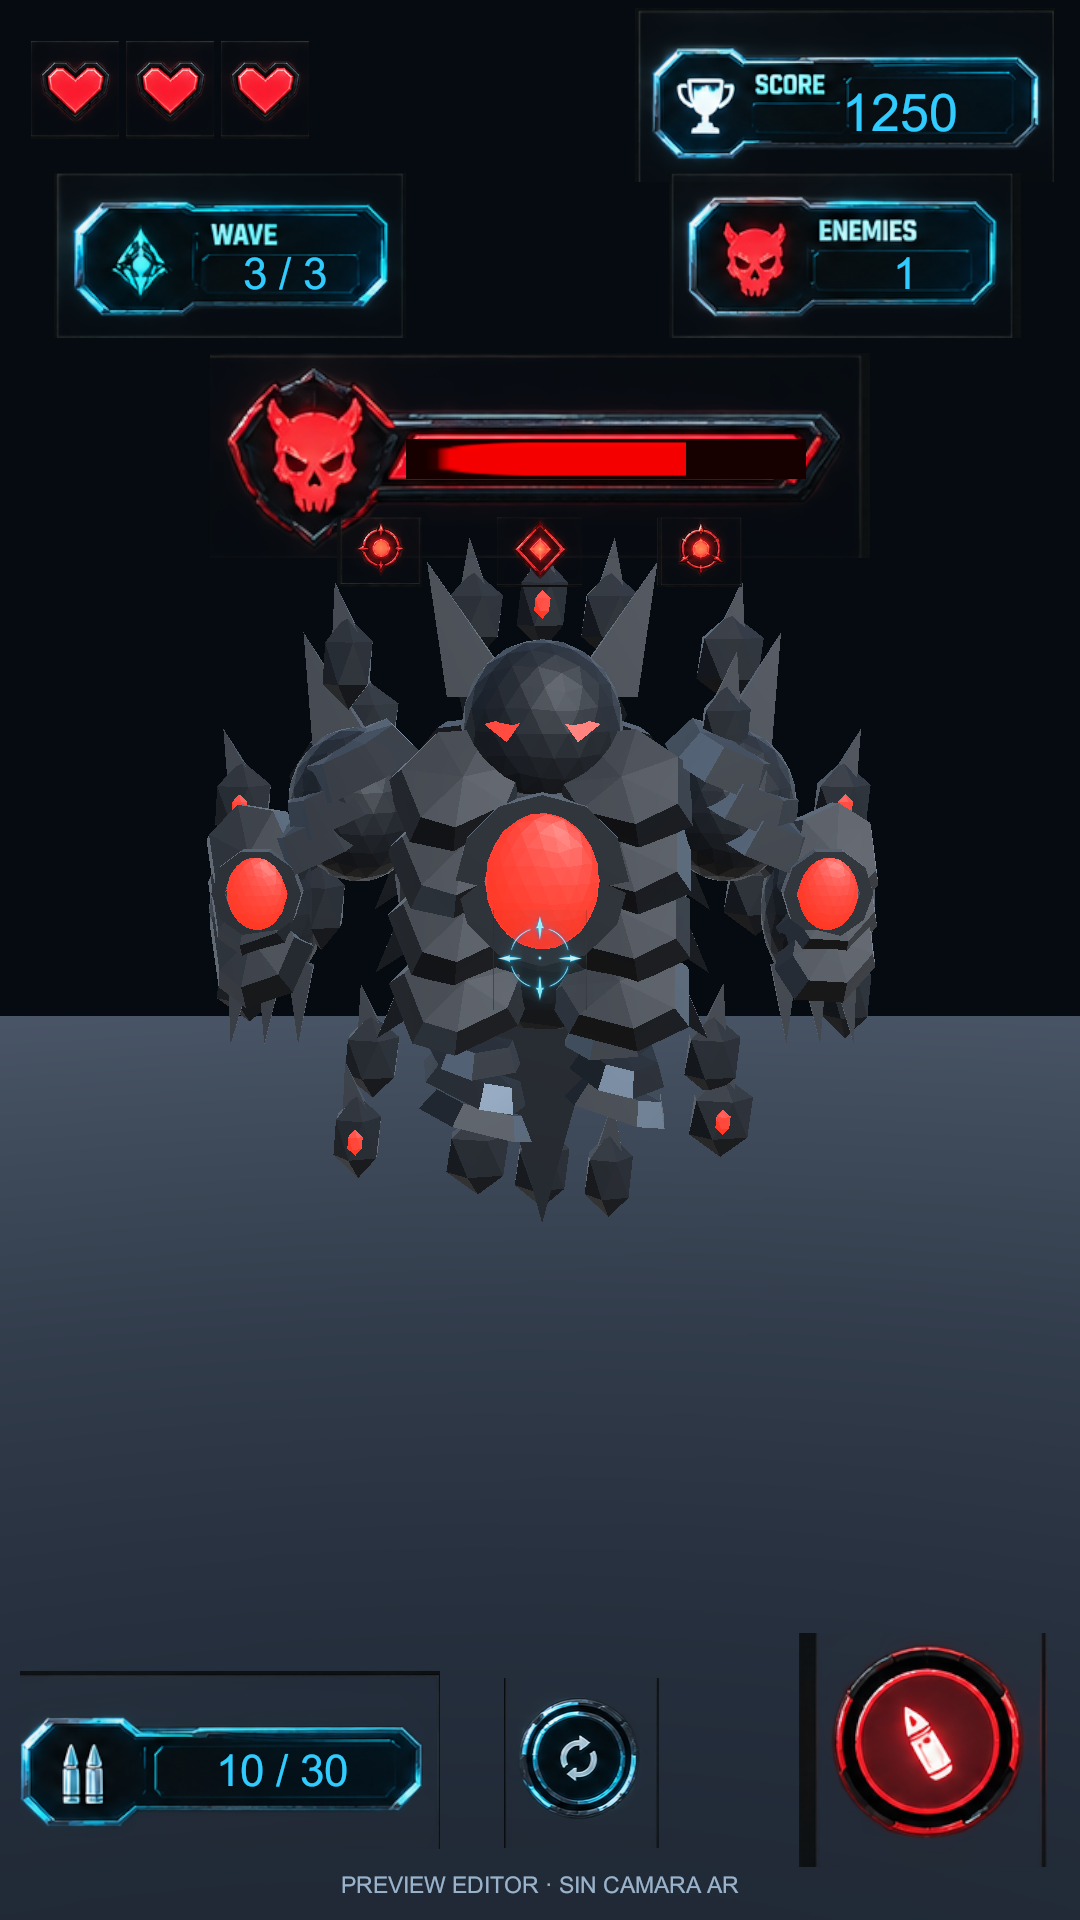
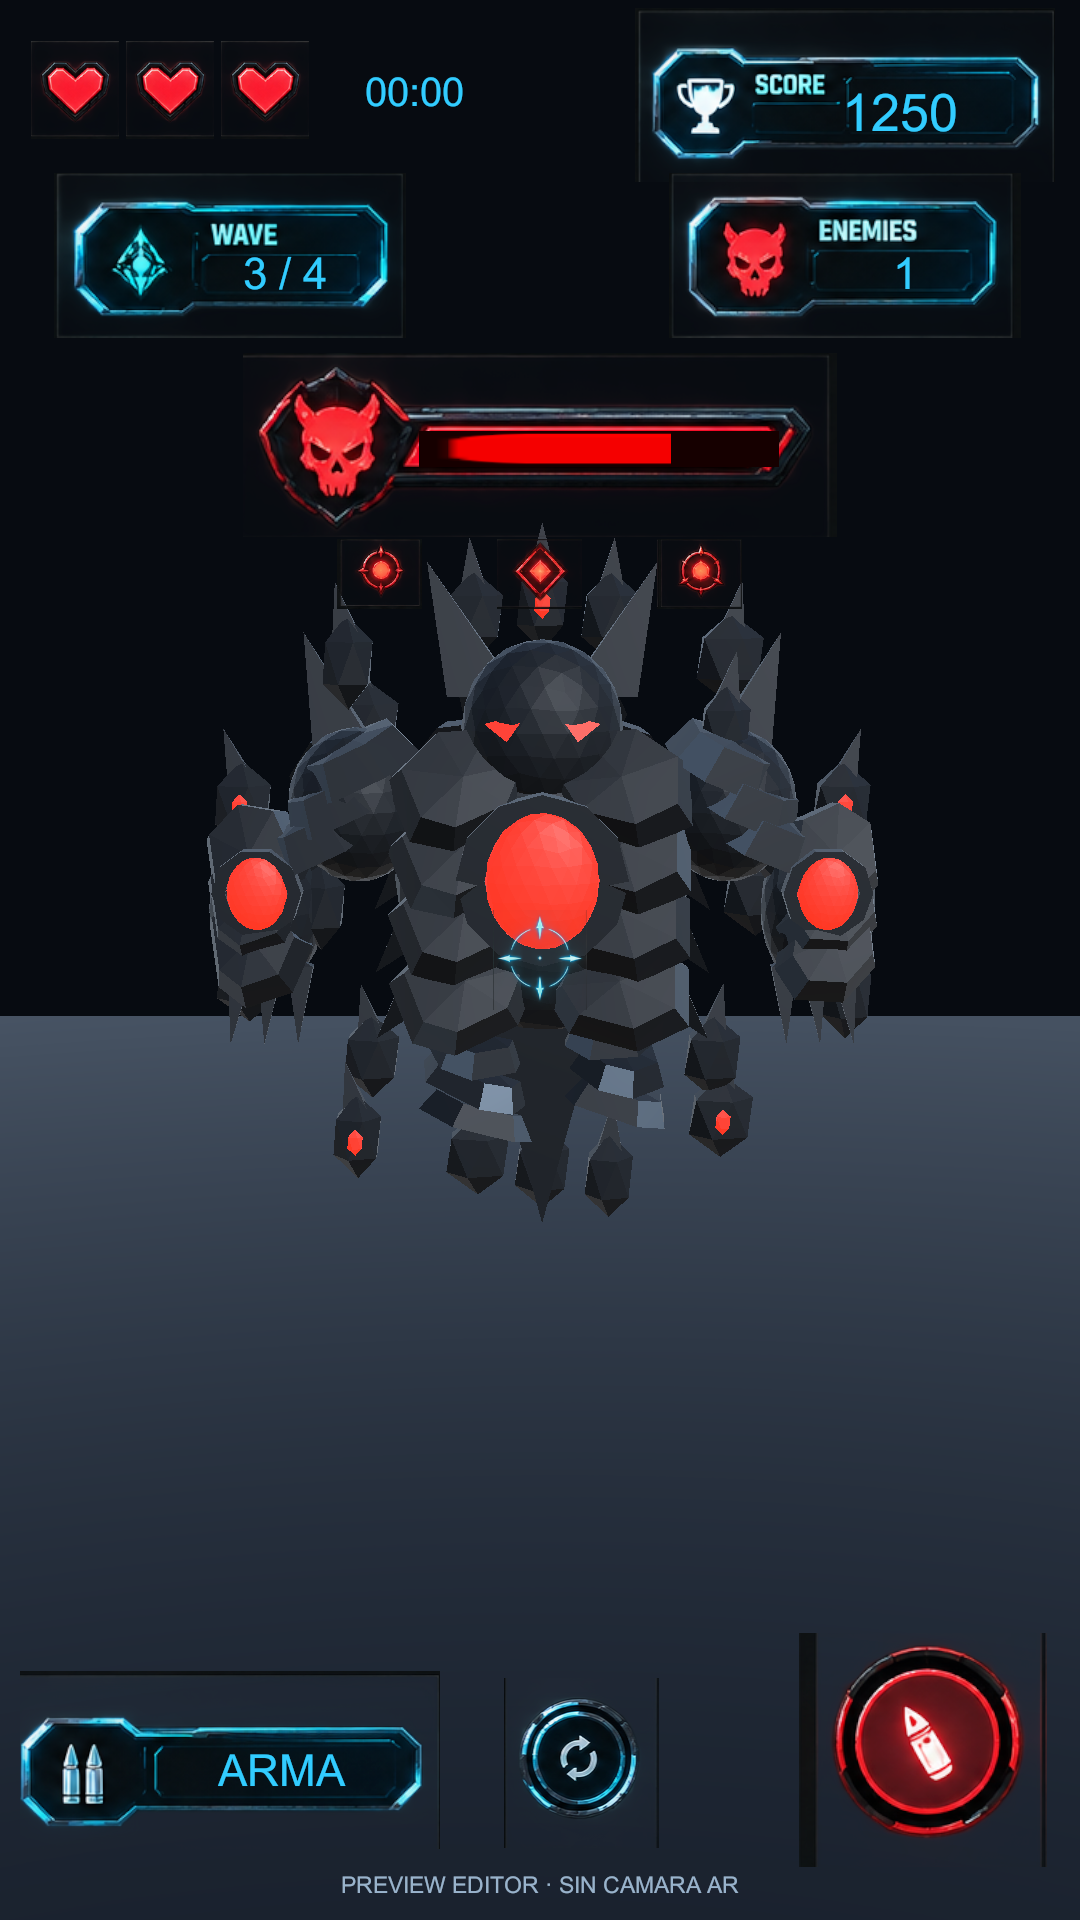
Persona 3: progresion de oleadas con anuncios, aviso del jefe, Game Over/Victory sin superposicion y HUD del jefe separado del texto.

diff --git a/Assets/Scripts/UI/Visual/VisualHUD.cs b/Assets/Scripts/UI/Visual/VisualHUD.cs
@@ -21,7 +21,7 @@ namespace RiftHuntersAR.UI.Visual
         public Image crosshair, message;
         public Image[] hearts;
         public Sprite crosshairNormal, crosshairHit, heartFull, heartEmpty, heartDamaged;
-        public Sprite scanMessage, placeMessage, killMessage;
+        public Sprite scanMessage, placeMessage, killMessage, bossMessage;
         public Text scoreValue, ammoValue, waveValue, enemyValue, stateValue, resultTitle;
         public Text tiempoValue, detalleFin;
         public GameObject resultPanel;
@@ -32,6 +32,8 @@ namespace RiftHuntersAR.UI.Visual
         private float hitUntil, killUntil, damageUntil;
         private float previousHP = 100;
         private bool preview;
+        private Color? colorGameOver;
+        private static readonly Color ColorVictoria = new(0.35f, 1f, 0.75f);
         private void OnEnable()
         {
             shoot.onClick.AddListener(Shoot); reload.onClick.AddListener(Reload);
@@ -130,26 +132,34 @@ namespace RiftHuntersAR.UI.Visual
             crosshair.sprite = hit ? crosshairHit : crosshairNormal;
             bool colocar = status == ARPrototypeController.TextoColocar;
             bool editorSinPlano = status == ARPrototypeController.TextoEditorColocar;
-            message.gameObject.SetActive((killed || state == "SCANNING") && !editorSinPlano);
-            message.sprite = killed ? killMessage : colocar ? placeMessage : scanMessage;
+            float fraccion = controller != null ? controller.FraccionJefe : -1f;
+            bool mostrarJefe = jefe && fraccion >= 0f;
+            bool avisoJefe = state == "WAVE" && controller != null && controller.AnunciandoJefe && bossMessage != null;
+            // El cartel de eliminado comparte altura con el HUD del jefe; no se muestra mientras el jefe está en pantalla.
+            bool mostrarEliminado = killed && !mostrarJefe;
+            message.gameObject.SetActive((mostrarEliminado || avisoJefe || state == "SCANNING") && !editorSinPlano);
+            message.sprite = avisoJefe ? bossMessage : mostrarEliminado ? killMessage : colocar ? placeMessage : scanMessage;
             var nucleos = controller != null ? controller.NucleosJefe : null;
+            string anuncio = controller != null ? controller.AnuncioOleada : "";
             if (state == "COUNTDOWN" && controller != null) stateValue.text = controller.TextoCuenta;
             else if (state == "SCANNING") stateValue.text = status;
             else if (controller != null && !controller.SeguimientoDisponible && state == "WAVE") stateValue.text = status;
+            else if (state == "WAVE" && !string.IsNullOrEmpty(anuncio)) stateValue.text = anuncio;
             else if (jefe && state == "WAVE" && nucleos != null) stateValue.text = nucleos.Pista;
             else stateValue.text = "";
             bool finished = state == "GAME_OVER" || state == "VICTORY";
-            resultTitle.text = state == "VICTORY" ? "VICTORIA" : "GAME OVER";
+            bool victoria = state == "VICTORY";
+            colorGameOver ??= resultTitle.color;
+            resultTitle.text = victoria ? "VICTORIA" : "GAME OVER";
+            resultTitle.color = victoria ? ColorVictoria : colorGameOver.Value;
             if (detalleFin != null)
             {
                 int derrotados = controller != null ? controller.EnemigosDerrotados : 0;
-                detalleFin.text = $"PUNTOS {points}\nENEMIGOS {derrotados}\nTIEMPO {FormatoTiempo(controller != null ? controller.TiempoPartida : 0f)}";
+                detalleFin.text = $"PUNTOS: {points}\nENEMIGOS: {derrotados}\nTIEMPO: {FormatoTiempo(controller != null ? controller.TiempoPartida : 0f)}";
                 detalleFin.gameObject.SetActive(finished);
             }
             if (bossHUD != null)
             {
-                float fraccion = controller != null ? controller.FraccionJefe : -1f;
-                bool mostrarJefe = jefe && fraccion >= 0f;
                 bossHUD.gameObject.SetActive(mostrarJefe);
                 if (mostrarJefe)
                 {
@@ -161,31 +171,42 @@ namespace RiftHuntersAR.UI.Visual
 
         private void AsegurarTextos()
         {
-            if (tiempoValue == null && scoreValue != null)
-                tiempoValue = CrearTexto(scoreValue, "Tiempo", new Vector2(0f, -80f));
-            if (detalleFin == null && resultTitle != null)
-                detalleFin = CrearTexto(resultTitle, "DetalleFin", new Vector2(0f, -220f));
+            // Junto a los corazones: entre Heart_2 (termina en x=309) y ScorePanel incluso en pantallas 20:9.
+            if (tiempoValue == null && scoreValue != null && resultPanel != null)
+                tiempoValue = BuscarOCrearTexto(resultPanel.transform.parent, "Tiempo", scoreValue,
+                    new Vector2(0f, 1f), new Vector2(415f, -92f), new Vector2(190f, 70f), 40, scoreValue.color);
+            // Entre ResultTitle (y 220..340 del panel) y Retry (y -190..-20): tres líneas sin desbordar.
+            if (detalleFin == null && resultTitle != null && resultPanel != null)
+                detalleFin = BuscarOCrearTexto(resultPanel.transform, "DetalleFin", resultTitle,
+                    new Vector2(0.5f, 1f), new Vector2(0f, -265f), new Vector2(800f, 200f), 46, new Color(0.92f, 0.96f, 1f));
         }
 
-        private static Text CrearTexto(Text origen, string nombre, Vector2 desplazamiento)
+        private static Text BuscarOCrearTexto(Transform padre, string nombre, Text estilo, Vector2 ancla,
+            Vector2 posicion, Vector2 tamano, int tamanoFuente, Color color)
         {
+            Transform existente = padre.Find(nombre);
+            if (existente != null && existente.TryGetComponent(out Text encontrado)) return encontrado;
+
             var go = new GameObject(nombre, typeof(RectTransform));
-            go.transform.SetParent(origen.transform.parent, false);
+            go.transform.SetParent(padre, false);
             var rt = go.GetComponent<RectTransform>();
-            var baseRt = origen.rectTransform;
-            rt.anchorMin = baseRt.anchorMin;
-            rt.anchorMax = baseRt.anchorMax;
-            rt.pivot = baseRt.pivot;
-            rt.sizeDelta = baseRt.sizeDelta;
-            rt.anchoredPosition = baseRt.anchoredPosition + desplazamiento;
+            rt.anchorMin = ancla;
+            rt.anchorMax = ancla;
+            rt.pivot = new Vector2(0.5f, 0.5f);
+            rt.sizeDelta = tamano;
+            rt.anchoredPosition = posicion;
             var texto = go.AddComponent<Text>();
-            texto.font = origen.font;
-            texto.fontSize = Mathf.Max(28, origen.fontSize - 8);
+            texto.font = estilo.font;
+            texto.fontSize = tamanoFuente;
+            texto.resizeTextForBestFit = true;
+            texto.resizeTextMinSize = 20;
+            texto.resizeTextMaxSize = tamanoFuente;
+            texto.lineSpacing = 1.1f;
             texto.alignment = TextAnchor.MiddleCenter;
-            texto.color = origen.color;
+            texto.color = color;
             texto.raycastTarget = false;
-            texto.horizontalOverflow = HorizontalWrapMode.Overflow;
-            texto.verticalOverflow = VerticalWrapMode.Overflow;
+            texto.horizontalOverflow = HorizontalWrapMode.Wrap;
+            texto.verticalOverflow = VerticalWrapMode.Truncate;
             return texto;
         }
 

diff --git a/Assets/Scripts/Game/PlanOleadas.cs b/Assets/Scripts/Game/PlanOleadas.cs
@@ -14,6 +14,7 @@ namespace RiftHunters.Game
         }
     }
 
+    // Los grupos de cada oleada salen en orden; el siguiente empieza cuando el anterior terminó de aparecer.
     public static class PlanOleadas
     {
         public const float Intervalo = 1.8f;
@@ -21,26 +22,41 @@ namespace RiftHunters.Game
 
         public static GrupoOleada[] De(GameState estado)
         {
+            // Oleada 1: introducción, solo básicos.
             if (estado == GameState.Wave1)
                 return new[] { new GrupoOleada(TipoEnemigo.Normal, 5, Intervalo) };
 
+            // Oleada 2: aparecen los rápidos intercalados con básicos.
             if (estado == GameState.Wave2)
             {
                 return new[]
                 {
-                    new GrupoOleada(TipoEnemigo.Normal, 8, Intervalo),
+                    new GrupoOleada(TipoEnemigo.Normal, 3, Intervalo),
+                    new GrupoOleada(TipoEnemigo.Rapido, 2, Intervalo),
+                    new GrupoOleada(TipoEnemigo.Normal, 2, Intervalo),
                     new GrupoOleada(TipoEnemigo.Rapido, 2, Intervalo)
                 };
             }
 
+            // Oleada 3: mezcla de los anteriores con mayoría de rápidos.
             if (estado == GameState.Wave3)
-                return new[] { new GrupoOleada(TipoEnemigo.Rapido, 6, IntervaloRapido) };
+            {
+                return new[]
+                {
+                    new GrupoOleada(TipoEnemigo.Rapido, 3, IntervaloRapido),
+                    new GrupoOleada(TipoEnemigo.Normal, 3, Intervalo),
+                    new GrupoOleada(TipoEnemigo.Rapido, 4, IntervaloRapido)
+                };
+            }
 
+            // Oleada 4: el tanque abre la oleada para presentarlo como enemigo pesado.
             if (estado == GameState.Wave4)
             {
                 return new[]
                 {
-                    new GrupoOleada(TipoEnemigo.Normal, 4, Intervalo),
+                    new GrupoOleada(TipoEnemigo.Tanque, 1, Intervalo),
+                    new GrupoOleada(TipoEnemigo.Normal, 3, Intervalo),
+                    new GrupoOleada(TipoEnemigo.Rapido, 2, IntervaloRapido),
                     new GrupoOleada(TipoEnemigo.Tanque, 1, Intervalo)
                 };
             }
@@ -49,6 +65,23 @@ namespace RiftHunters.Game
                 return new[] { new GrupoOleada(TipoEnemigo.Jefe, 1, Intervalo) };
 
             return new GrupoOleada[0];
+        }
+
+        public static string Anuncio(GameState estado)
+        {
+            if (estado == GameState.Wave1) return "OLEADA 1: ENEMIGOS BÁSICOS";
+            if (estado == GameState.Wave2) return "OLEADA 2: ¡LLEGAN LOS RÁPIDOS!";
+            if (estado == GameState.Wave3) return "OLEADA 3: ¡ENJAMBRE MIXTO!";
+            if (estado == GameState.Wave4) return "OLEADA 4: ¡CUIDADO CON EL TANQUE!";
+            if (estado == GameState.Boss) return "¡EL RIFT GUARDIAN SE ACERCA!";
+            return "";
+        }
+
+        public static float Espera(GameState estado)
+        {
+            if (estado == GameState.Wave1) return 1.5f;
+            if (estado == GameState.Boss) return 3f;
+            return 2.5f;
         }
     }
 }

diff --git a/Assets/Scripts/Game/GameManager.cs b/Assets/Scripts/Game/GameManager.cs
@@ -22,6 +22,7 @@ namespace RiftHunters.Game
 
         float matchTime;
         float countdownLeft;
+        float esperaOleada;
         bool cerrando;
         bool enAviso;
         bool invasion;
@@ -30,6 +31,8 @@ namespace RiftHunters.Game
         public float MatchSeconds => matchTime;
         public float CountdownLeft => countdownLeft;
         public string TextoCuenta { get; private set; } = "";
+        public string Anuncio { get; private set; } = "";
+        public bool AnunciandoJefe => State == GameState.Boss && esperaOleada > 0f;
         public int Puntos => puntuacion != null ? puntuacion.Score : 0;
         public float VidaActual => vida != null ? vida.CurrentHealth : 0f;
         public bool EsJefe => State == GameState.Boss;
@@ -82,7 +85,16 @@ namespace RiftHunters.Game
         void Update()
         {
             if (IsRunning) matchTime += Time.deltaTime;
-            if (EsOleada(State)) PedirSiguienteGrupo();
+            if (EsOleada(State))
+            {
+                if (esperaOleada > 0f)
+                {
+                    esperaOleada -= Time.deltaTime;
+                    if (esperaOleada > 0f) return;
+                    Anuncio = "";
+                }
+                PedirSiguienteGrupo();
+            }
             if (State != GameState.Countdown) return;
 
             countdownLeft -= Time.deltaTime;
@@ -167,7 +179,12 @@ namespace RiftHunters.Game
             State = siguiente;
             bool oleada = EsOleada(siguiente);
             bool fin = siguiente == GameState.Victory || siguiente == GameState.GameOver;
-            if (!oleada) pendientes.Clear();
+            if (!oleada)
+            {
+                pendientes.Clear();
+                esperaOleada = 0f;
+                Anuncio = "";
+            }
             if (!oleada && siguiente != GameState.Countdown) TextoCuenta = "";
 
             if (generador != null)
@@ -186,12 +203,13 @@ namespace RiftHunters.Game
             pendientes.Clear();
             GrupoOleada[] grupos = PlanOleadas.De(oleada);
             for (int i = 0; i < grupos.Length; i++) pendientes.Enqueue(grupos[i]);
-            PedirSiguienteGrupo();
+            Anuncio = PlanOleadas.Anuncio(oleada);
+            esperaOleada = PlanOleadas.Espera(oleada);
         }
 
         void PedirSiguienteGrupo()
         {
-            if (pendientes.Count == 0 || generador == null || generador.EstaGenerando) return;
+            if (esperaOleada > 0f || pendientes.Count == 0 || generador == null || generador.EstaGenerando) return;
             GrupoOleada grupo = pendientes.Peek();
             if (!generador.GenerarGrupo(grupo.Tipo, grupo.Cantidad, grupo.Intervalo)) return;
             pendientes.Dequeue();

diff --git a/Assets/Scripts/Integration/ARPrototypeController.cs b/Assets/Scripts/Integration/ARPrototypeController.cs
@@ -65,6 +65,8 @@ namespace RiftHuntersAR.Integration
         public int EnemigosDerrotados => enlaceCombate != null ? enlaceCombate.Derrotados : 0;
         public float TiempoPartida => GameManager.Instance != null ? GameManager.Instance.MatchSeconds : 0f;
         public string TextoCuenta => GameManager.Instance != null ? GameManager.Instance.TextoCuenta : "";
+        public string AnuncioOleada => GameManager.Instance != null ? GameManager.Instance.Anuncio : "";
+        public bool AnunciandoJefe => GameManager.Instance != null && GameManager.Instance.AnunciandoJefe;
         public float FraccionJefe => adaptador != null ? adaptador.FraccionJefe : -1f;
         public RiftHunters.Combate.NucleosJefe NucleosJefe => adaptador != null ? adaptador.Nucleos : null;
         public RiftHunters.Combate.GestorArmas Armas => enlaceCombate != null ? enlaceCombate.Armas : null;
@@ -424,6 +426,7 @@ namespace RiftHuntersAR.Integration
                     }
                 }
                 if (state == "COUNTDOWN") statusText.text = TextoCuenta;
+                else if (state == "WAVE" && !string.IsNullOrEmpty(AnuncioOleada)) statusText.text = AnuncioOleada;
                 else if (state == "WAVE") statusText.text = EsJefe
                     ? (NucleosJefe != null ? $"JEFE: {NucleosJefe.Pista}" : "JEFE")
                     : $"OLEADA {wave}/4";
